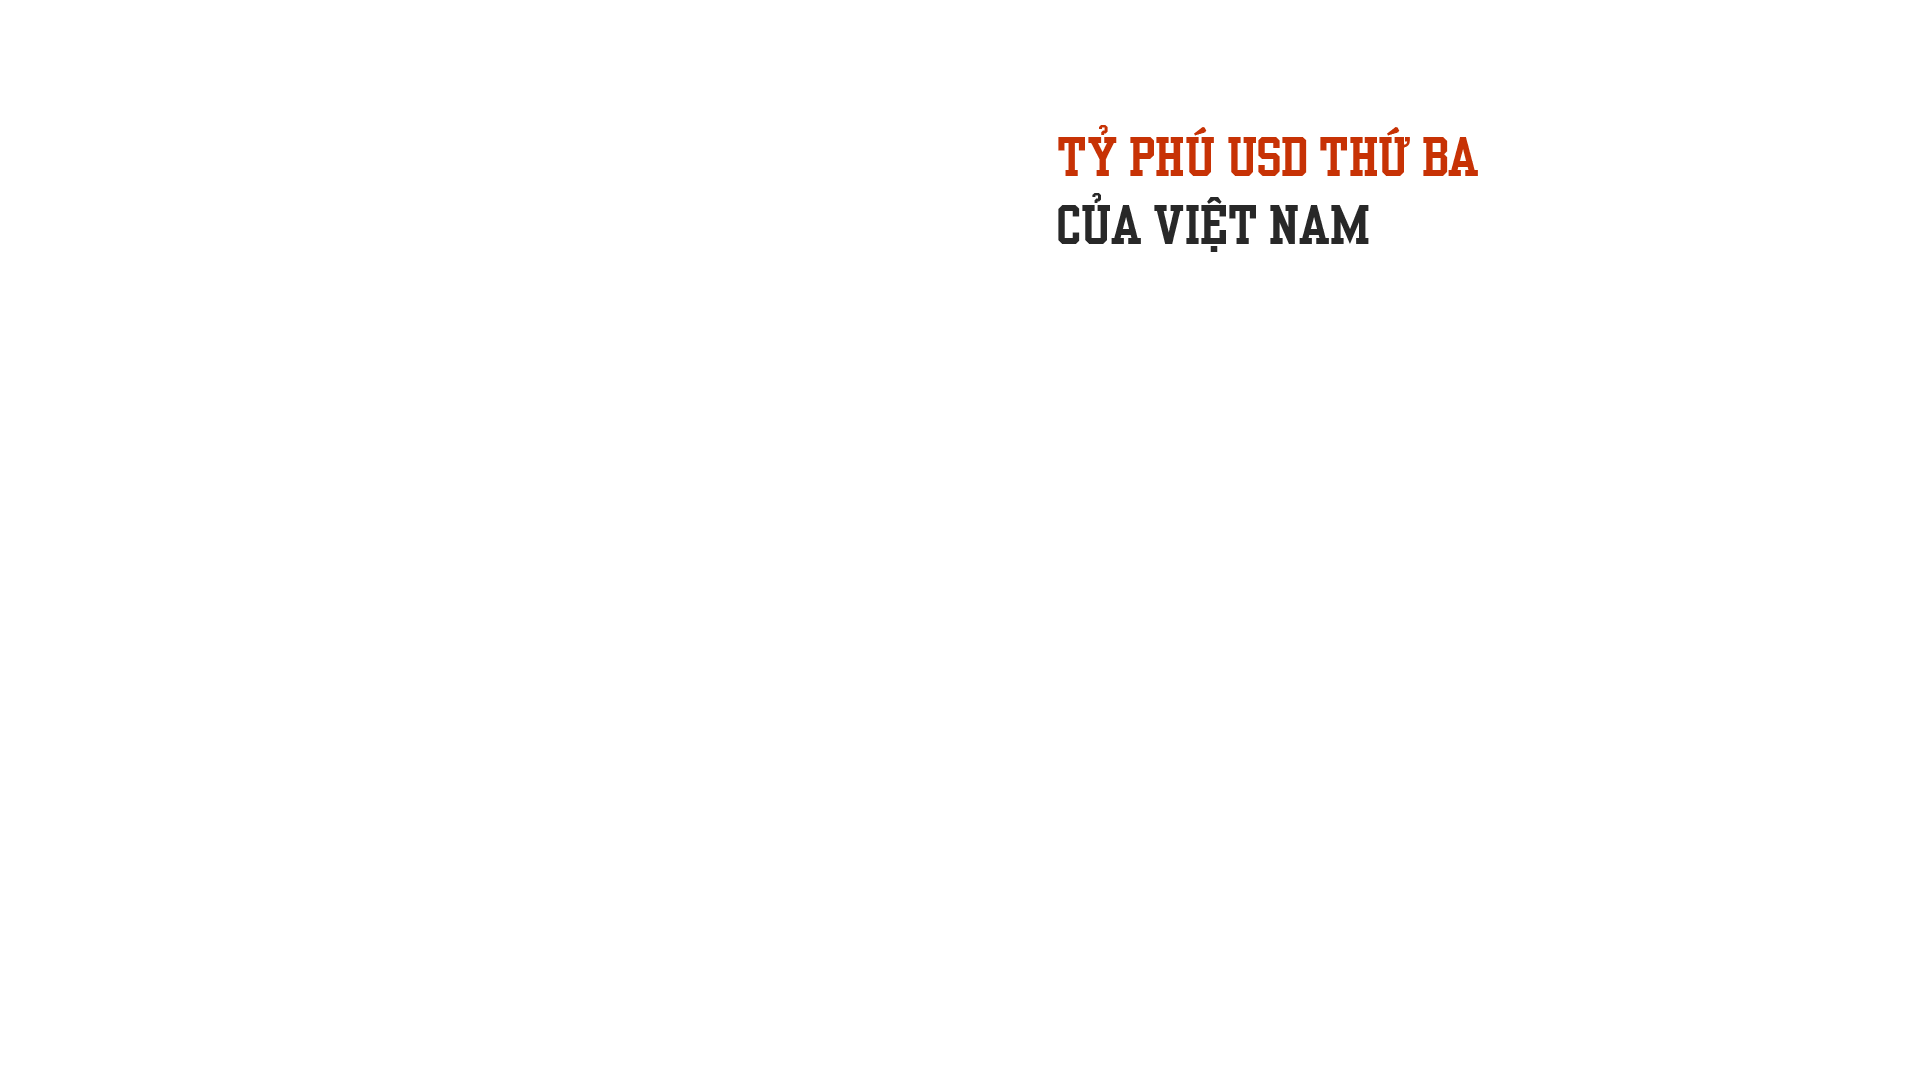
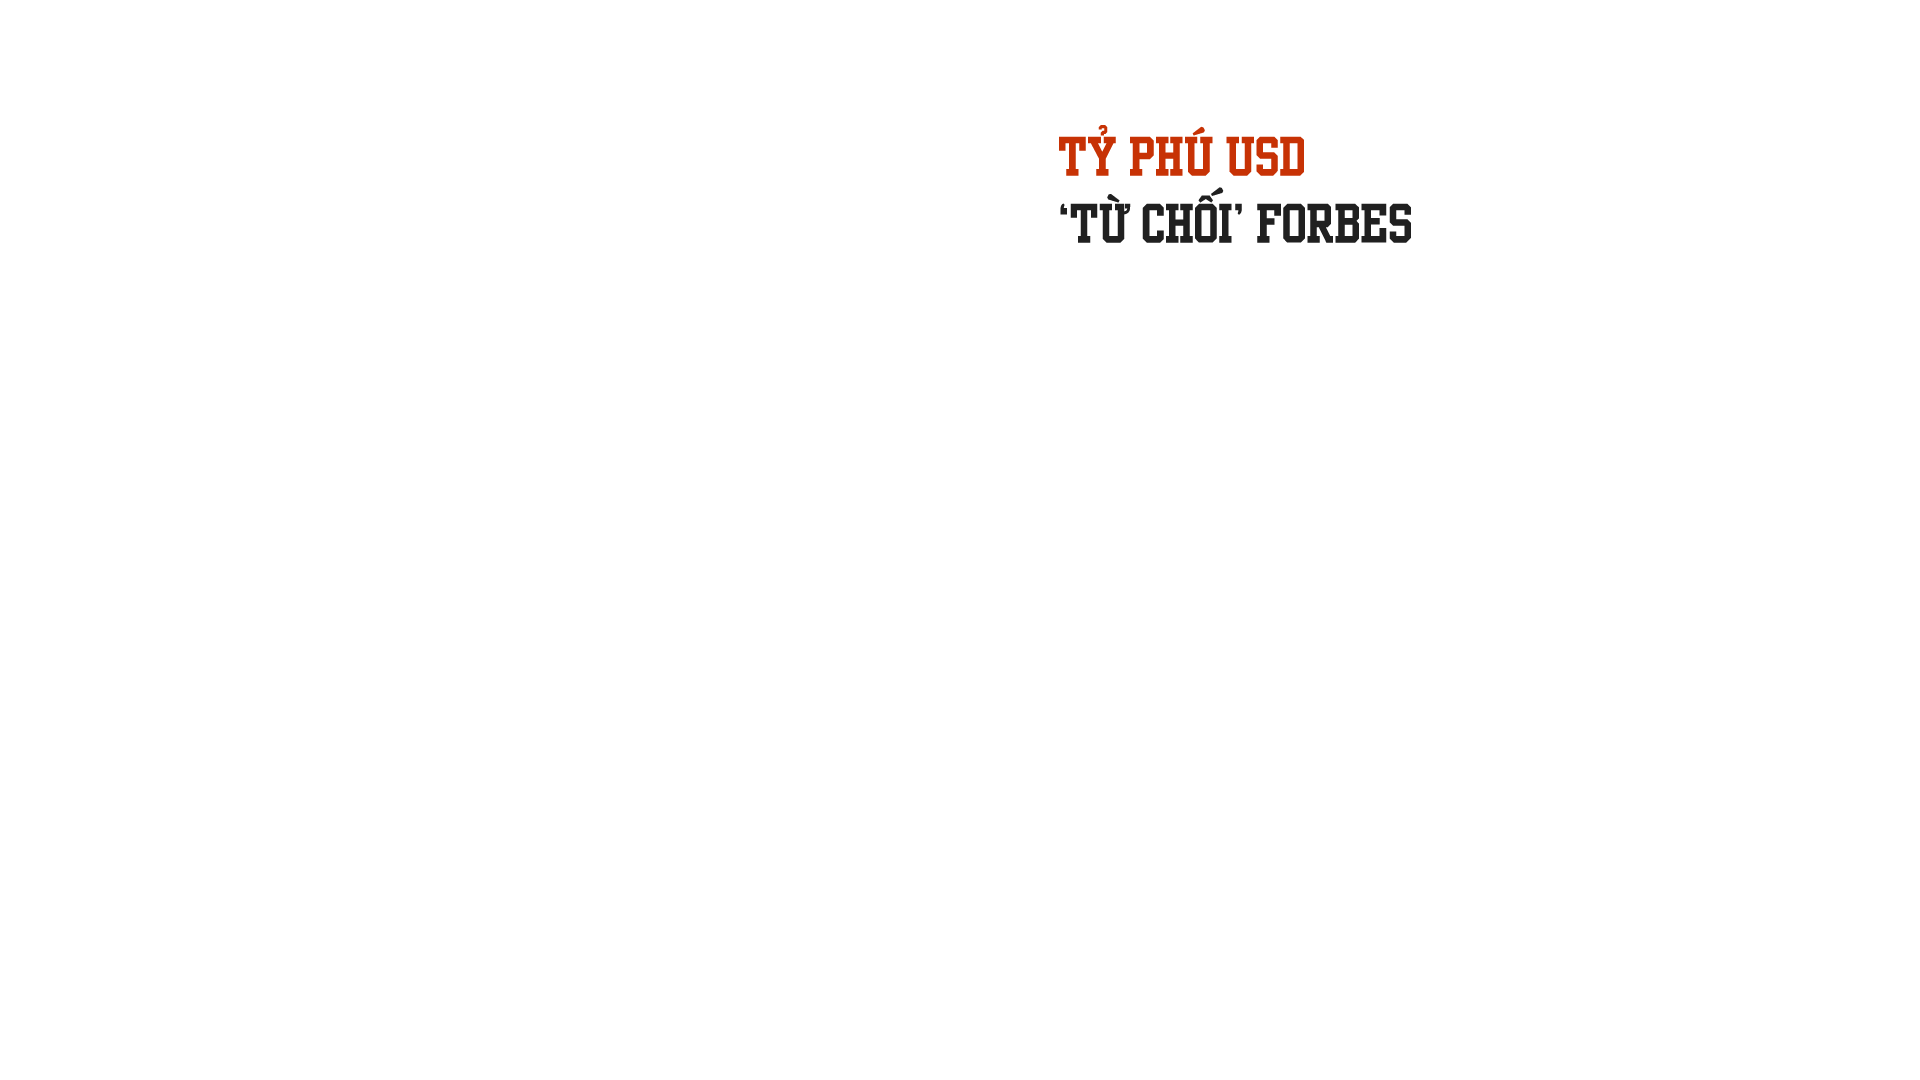
z

Changed region(s): [[0.5312, 0.1222, 0.7812, 0.2444]]

diff --git a/index.html b/index.html
@@ -94,13 +94,11 @@
                         <img src="image/s3-title.png" alt="" class="mw-img wow fadeInDown" data-wow-duration="0.6s" data-wow-delay="0.6s">
 
                         <div class="mw-content mw-c3 wow fadeIn" data-wow-duration="0.6s" data-wow-delay="1s">
-                            <p class="mwc-text">Hồi phục ngoạn mục sau tác động tiêu cực do giá thịt lợn giảm mạnh đầu năm 2017, cổ phiếu MSN của Masan ghi nhận mức tăng tới 50% thị giá chỉ trong nửa năm. Tốc độ tăng thị giá này kéo theo việc nhiều cổ đông của doanh nghiệp trở thành triệu phú và tỷ phú USD trong thời gian ngắn.</p>
-
                             <p class="mwc-text">Là cổ đông chính của Công ty cổ phần Masan (Masan Corp) – đơn vị đang sở hữu công ty đang trực tiếp và gián tiếp nắm giữ 50% cổ phần của Masan Group – ông Nguyễn Đăng Quang được ngầm hiểu là người sở hữu nhiều cổ phần nhất.</p>
 
                             <p class="mwc-text">Đầu năm 2018, số cổ phần cùng tài sản riêng trong tay ông Quang được Bloomberg định giá khoảng 1,2 tỷ USD, qua đó, đưa vị này trở thành người Việt thứ ba được nêu danh trong danh sách tỷ phú thế giới của Bloomberg. Cho đến cuối năm, ông Quang vẫn là 1 trong 2 tỷ phú Đông Nam Á mới được Bloomberg gọi tên.</p>
 
-                            <p class="mwc-text">Tuy nhiên, ông Quang vẫn chưa được đưa vào danh sách tỷ phú của Forbes, vốn được cập nhật thường niên vào tháng 3 hàng năm.</p>
+                            <p class="mwc-text">Tuy nhiên, ông Quang không có tên trong danh sách tỷ phú của Forbes vốn được cập nhật thường niên vào tháng 3 hàng năm. Ông Quang “từ chối” xác nhận thông tin về tài sản cá nhân của mình với tạp chí của Mỹ, trong khi Forbes, với truyền thống thận trọng, quyết định không xếp hạng không Quang vào danh sách của mình.</p>
                         </div>
                     </div>
                 </div>
